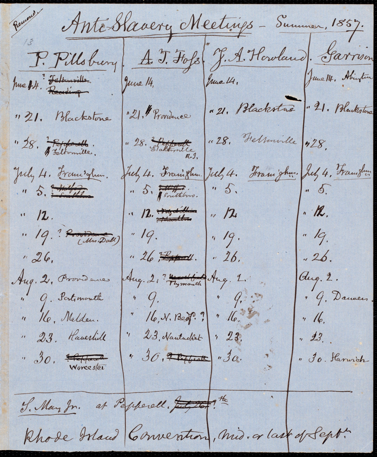
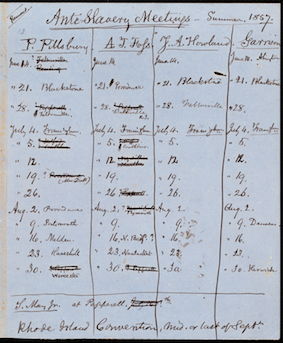
Resize Images and Use Correct Hot Loader

diff --git a/webpack.config.js b/webpack.config.js
@@ -25,7 +25,7 @@ module.exports = {
   },
   entry: [
     'eventsource-polyfill', // necessary for hot reloading with IE
-    'react-hot-loader/patch',
+    'webpack-hot-middleware/client?reload=true',
     path.join(__dirname, 'src/index.jsx'),
   ],
 
